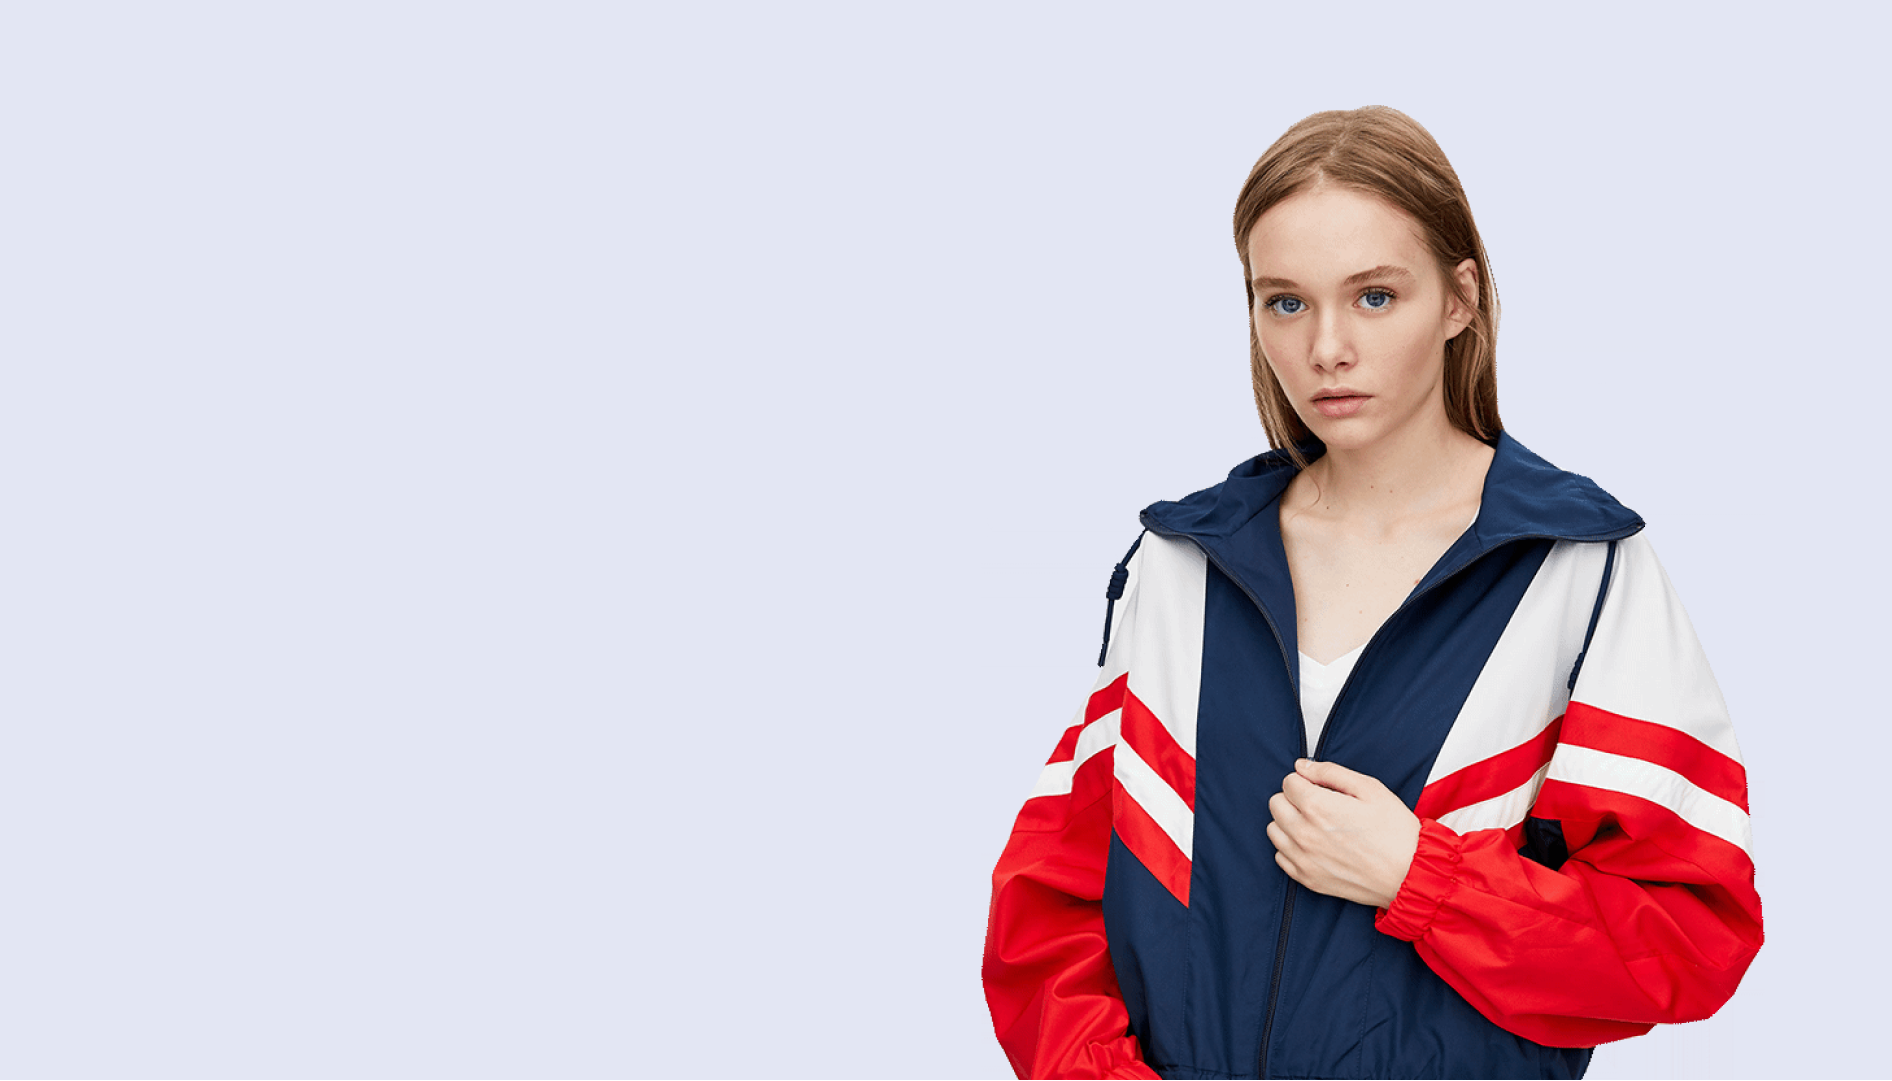
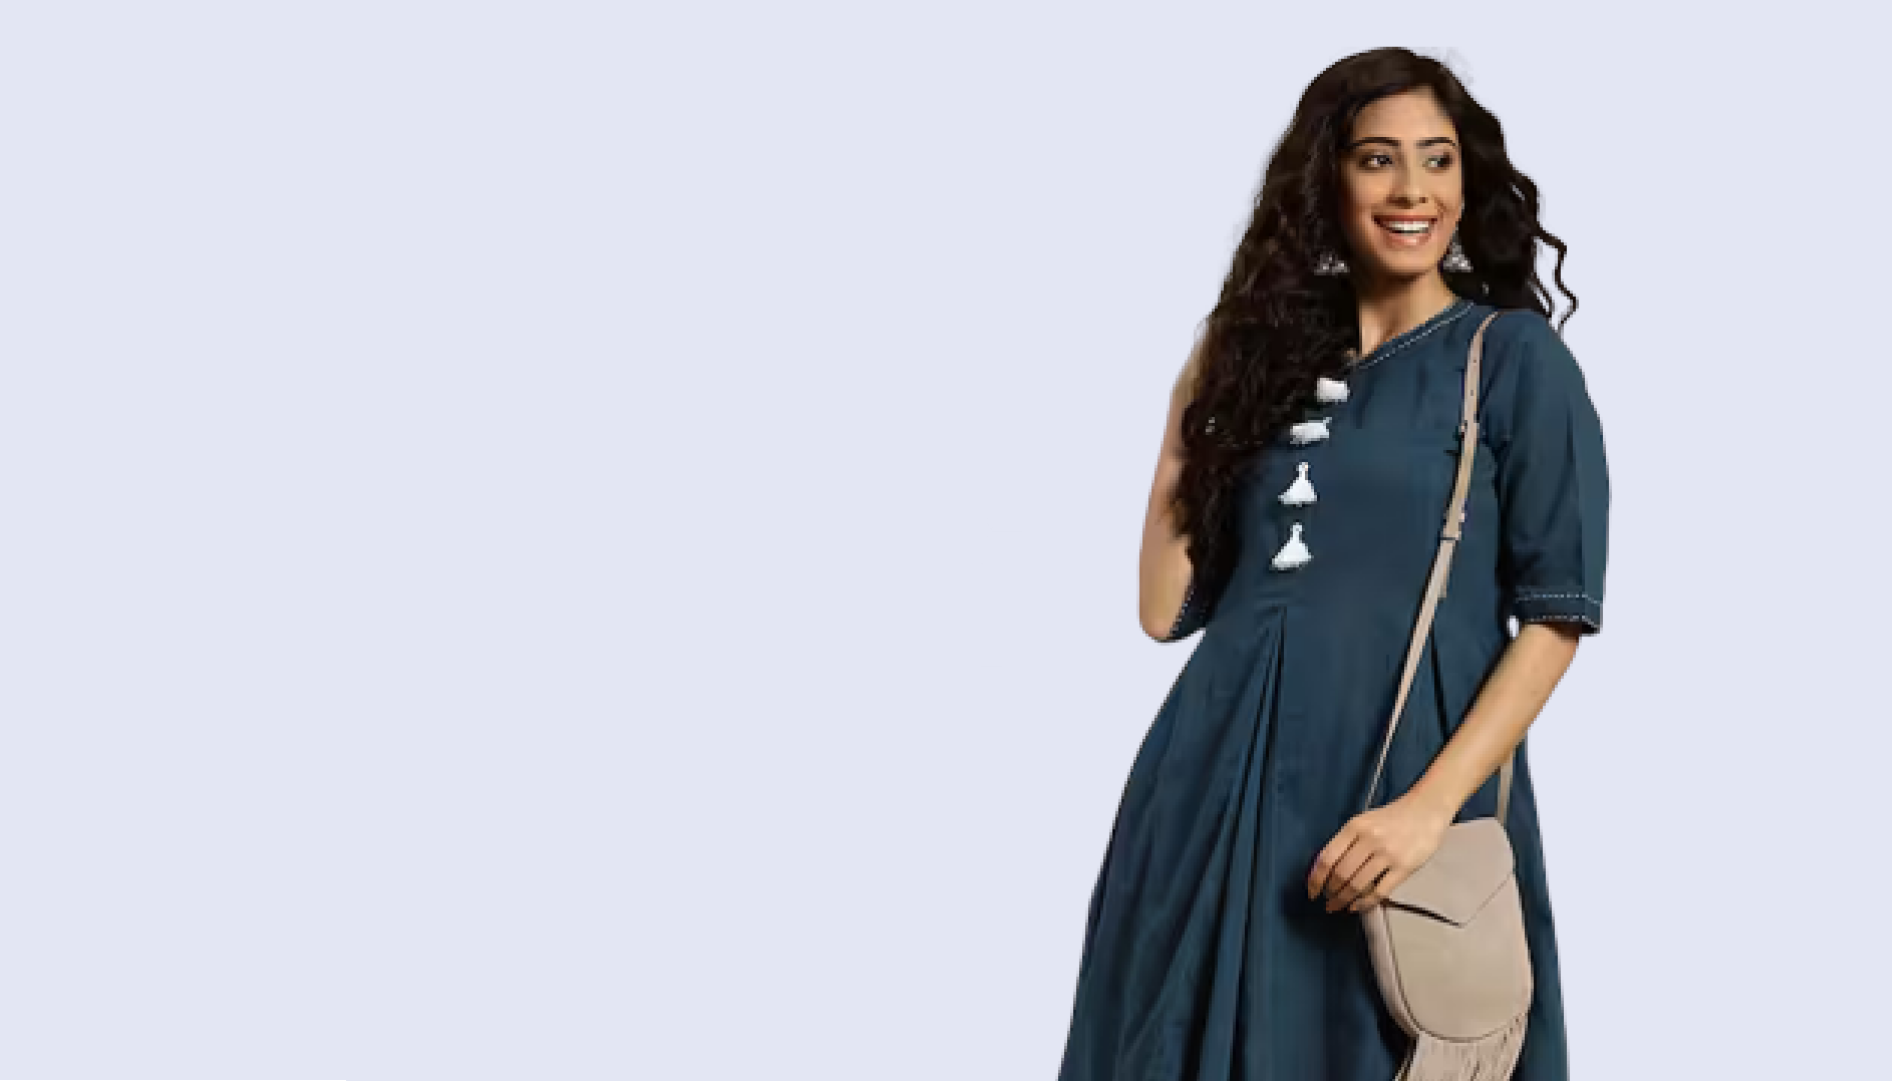
landing done

Changed region(s): [[0.4989, 0.0305, 0.9355, 1.0]]

diff --git a/assets/css/style.css b/assets/css/style.css
@@ -1,13 +1,14 @@
 @import url('https://fonts.googleapis.com/css2?family=Eagle+Lake&display=swap');
+@import url("https://fonts.googleapis.com/css2?family=Spartan:wght@100;200;300;400;500;600;700;800;900&display=swap");
 
 *{
     margin: 0;
     padding: 0;
     box-sizing: border-box;
-    font-family: 'Eagle Lake', cursive;
+    font-family: "Spartan", sans-serif;
 }
 
-logo{
+logoxd{
     font-family: 'Eagle Lake', cursive;
 }
 
@@ -49,4 +50,88 @@ p{
 
 body{
     width: 100%;
+}
+.logo{
+    width: 60%;
+    height: 60%;
+}
+/* Header Navbar Starts */
+#header {
+    display: flex;
+    align-items: center;
+    justify-content: space-between;
+    padding: 20px 80px;
+    background: #ffdafb;
+    box-sizing: 0 5px 15px rgba(0, 0, 0, 0.06);
+    z-index: 99999999;
+}
+
+#navbar{
+    display: flex;
+    align-items: center;
+    justify-content: center;
+}
+
+#navbar li {
+    list-style: none;
+    padding: 0 20px;
+    position: relative;
+}
+
+#navbar li a{
+    text-decoration: none;
+    font-size: 16px;
+    font-weight: 600;
+    color: #1A1A1A;
+    transition: 0.4s ease;
+}
+
+#navbar li a:hover,
+#navbar li a.active{
+    color: #088178;
+}
+
+#navbar li a.active::after,
+#navbar li a:hover::after  {
+    content: "";
+    width: 30%;
+    height: 2px;
+    background: #088178;
+    position: absolute;
+    bottom: -4px;
+    left: 20px;
+}
+
+/* Home Page */
+#hero{
+    background-image: url("../images/hero4.png");
+    height: 90vh;
+    width: 100%;
+    background-size: cover;
+    background-position: top 25% right 0;
+    padding: 0 80px;
+    display: flex;
+    flex-direction: column;
+    align-items: flex-start;
+    justify-content: center;
+}
+
+#hero h4{
+    padding-bottom: 15px;
+}
+
+#hero h1{
+    color: #088178;
+}
+
+#hero button{
+    background-image: url(../images/button.png);
+    background-color: transparent;
+    color: #088178;
+    border: 0;
+    padding: 14px 80px 14px 65px;
+    background-repeat: no-repeat;
+    cursor: pointer;
+    font-weight: 700;
+    font-size: 15px;
 }

diff --git a/index.html b/index.html
@@ -8,21 +8,34 @@
     <link href="https://fonts.googleapis.com/css2?family=Eagle+Lake&display=swap" rel="stylesheet">
     <meta name="viewport" content="width=device-width, initial-scale=1.0">
     <title>Brown Silk</title>
-    <link rel="stylesheet" href="style.css">
-    <style>        
-        logo{
-            font-family: 'Eagle Lake', cursive;
-        }
-    </style>
+    <link rel="stylesheet" href="https://pro.fontawesome.com/releases/v5.15.4/css/all.css" />
+    <link rel="stylesheet" href="../Brown-silk/assets/css/style.css">
 </head>
 
 <body>
     
-    <section id="navbar_header">
-        <a href="#"><img src="../Brown-silk/assets/images/logo.png" alt=""></a>
+    <section id="header">
+        <a href="#"><img src="../Brown-silk/assets/images/logo.png" class="logo" alt=""></a>
+
+        <div>
+            <ul id="navbar">
+                <li><a class="active" href="index.html">Home</a></li>
+                <li><a href="shop.html">Shop</a></li>
+                <li><a href="blog.html">Blog</a></li>
+                <li><a href="about.html">About</a></li>
+                <li><a href="contact.html">Contact</a></li>
+                <li><a href="cart.html"><i class="far fa-shopping-bag"></i></a></li>
+            </ul>
+        </div>
     </section>
     
-
+    <section id="hero">
+        <h4>Exclusive offers</h4>
+        <h2>Best value deals</h2>
+        <h1>On all products</h1>
+        <p>Save upto 20% on prepaid orders!</p>
+        <button>Shop Now</button>
+    </section>
 
     <script src="./assets/js/script.js"></script>
 </body>
